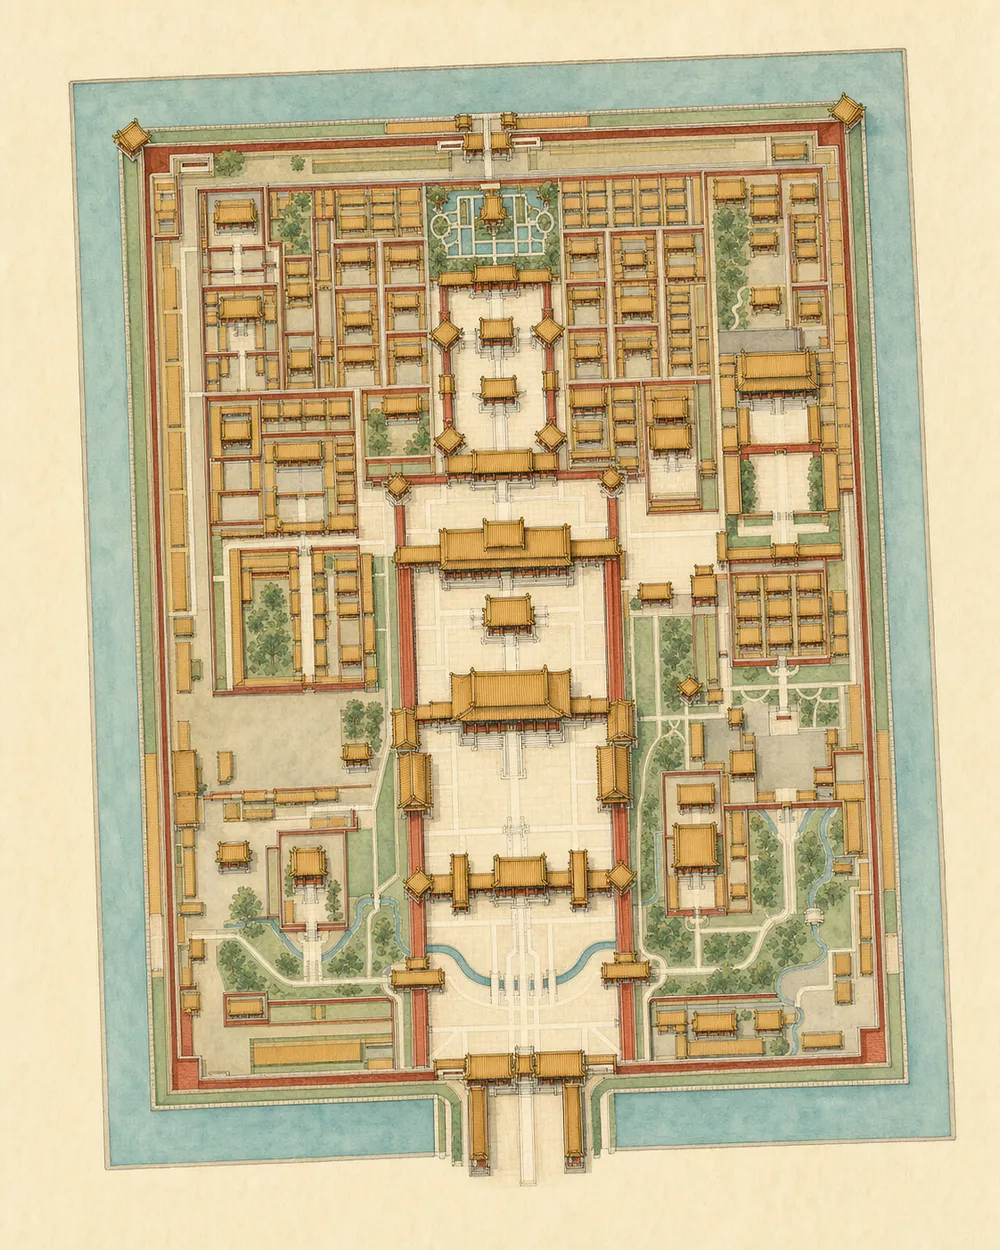
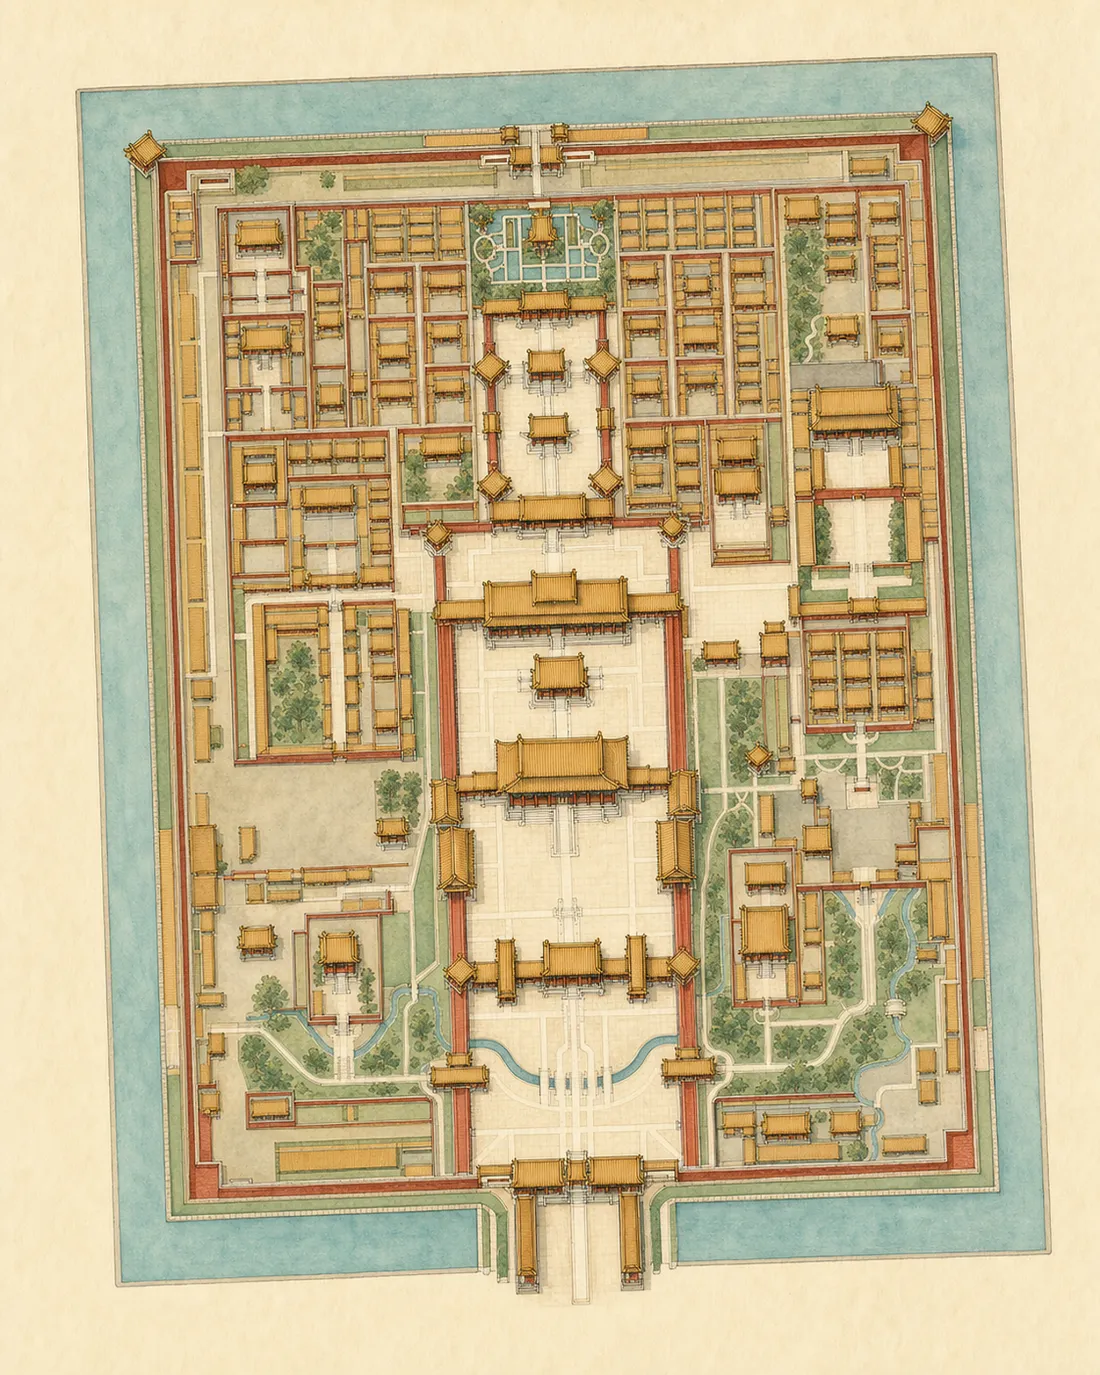
Show hand-drawn art instead of app screenshots; area-focused maps in development

diff --git a/index.html b/index.html
@@ -15,7 +15,7 @@
 <meta name="theme-color" content="#f8f3ea">
 <link rel="icon" type="image/png" href="favicon.png">
 <link rel="apple-touch-icon" href="apple-touch-icon.png">
-<link rel="stylesheet" href="assets/site.css?v=4cabcf5b">
+<link rel="stylesheet" href="assets/site.css?v=3b580346">
 </head>
 <body class="home">
 <header class="top">
@@ -37,7 +37,7 @@
     </div>
     <div class="hero-art">
       <img class="hero-lion" src="assets/img/art-lion.webp" alt="" width="600" height="727">
-      <div class="hero-phone"><img src="assets/img/hero.webp" alt="Penyola showing the hand-drawn Forbidden City map" width="530" height="1118"></div>
+      <div class="hero-map"><img src="assets/img/map-forbiddencity.webp" alt="Hand-drawn map of the Forbidden City" width="1100" height="1374"></div>
     </div>
   </div>
 </section>
@@ -67,7 +67,7 @@
         </div>
       </article>
       <article class="guide">
-        <div class="guide-map"><img src="assets/img/map-forbiddencity.webp" alt="Hand-drawn map of Forbidden City" loading="lazy" width="1000" height="1250"></div>
+        <div class="guide-map"><img src="assets/img/map-forbiddencity.webp" alt="Hand-drawn map of Forbidden City" loading="lazy" width="1100" height="1374"></div>
         <div class="guide-text">
           <p class="tag">Unlock All Guides</p>
           <h3>Forbidden City <span class="zh" lang="zh-Hans">故宫</span></h3>
@@ -91,11 +91,12 @@
     <div class="story-text">
       <p class="eyebrow">Every detail has a story</p>
       <h2>See what most visitors walk past</h2>
-      <p>Bronze lions guarding the gates, the crane and tortoise before the throne hall, the sundial that told imperial time. Penyola points them out on the map and tells you why they are there.</p>
+      <p>Bronze lions guarding the gates, the crane and tortoise before the throne hall, a golden celestial globe, the sundial that told imperial time. Penyola points them out on the map and tells you why they are there.</p>
     </div>
     <div class="relics" aria-hidden="true">
       <img src="assets/img/art-crane.webp" alt="" loading="lazy" width="600" height="600">
-      <img src="assets/img/art-throne.webp" alt="" loading="lazy" width="600" height="600">
+      <img src="assets/img/art-tortoise.webp" alt="" loading="lazy" width="600" height="600">
+      <img src="assets/img/art-globe.webp" alt="" loading="lazy" width="600" height="600">
       <img src="assets/img/art-sundial.webp" alt="" loading="lazy" width="600" height="600">
     </div>
   </div>
@@ -115,12 +116,23 @@
       <li><h3>Visitor essentials</h3><p>Opening hours, ticket notes, entrances and a Chinese address card for your taxi driver.</p></li>
       <li><h3>Works offline</h3><p>Everything is on your phone. No account, no sign-in, no ads.</p></li>
     </ul>
-    <div class="shots" tabindex="0" aria-label="App screenshots">
-      <figure><img src="assets/img/shot-02.webp" alt="Every detail has a story. Lions, cranes and roof beasts, each with its own page on the map." loading="lazy" width="720" height="1564"></figure>
-      <figure><img src="assets/img/shot-03.webp" alt="Listen as you explore. Narrated audio stories in English for every highlight." loading="lazy" width="720" height="1564"></figure>
-      <figure><img src="assets/img/shot-04.webp" alt="Routes that fit your time. Walking times, distances and stops, planned for you." loading="lazy" width="720" height="1564"></figure>
-      <figure><img src="assets/img/shot-05.webp" alt="See what others walk past. Small treasures beside the famous halls." loading="lazy" width="720" height="1564"></figure>
-      <figure><img src="assets/img/shot-06.webp" alt="No signal? No problem.. Maps, stories and audio live on your phone." loading="lazy" width="720" height="1564"></figure>
+  </div>
+</section>
+
+<section class="band paper">
+  <div class="wrap">
+    <div class="head">
+      <p class="eyebrow">Drawn by hand</p>
+      <h2>Every building, illustrated</h2>
+      <p class="lede">Each guide pairs its map with watercolour-style drawings of the halls, gates and pavilions you'll walk through.</p>
+    </div>
+    <div class="blds">
+      <figure class="bld"><img src="assets/img/bld-hall-of-supreme-harmony.webp" alt="Hand-drawn illustration of the Hall of Supreme Harmony" loading="lazy" width="640" height="640"><figcaption><strong>Hall of Supreme Harmony</strong>Forbidden City</figcaption></figure>
+      <figure class="bld"><img src="assets/img/bld-meridian-gate.webp" alt="Hand-drawn illustration of the Meridian Gate" loading="lazy" width="640" height="640"><figcaption><strong>Meridian Gate</strong>Forbidden City</figcaption></figure>
+      <figure class="bld"><img src="assets/img/bld-wanchun.webp" alt="Hand-drawn illustration of the Wanchun Pavilion" loading="lazy" width="640" height="640"><figcaption><strong>Wanchun Pavilion</strong>Jingshan Park</figcaption></figure>
+      <figure class="bld"><img src="assets/img/bld-palace-of-heavenly-purity.webp" alt="Hand-drawn illustration of the Palace of Heavenly Purity" loading="lazy" width="640" height="640"><figcaption><strong>Palace of Heavenly Purity</strong>Forbidden City</figcaption></figure>
+      <figure class="bld"><img src="assets/img/bld-gate-of-divine-might.webp" alt="Hand-drawn illustration of the Gate of Divine Might" loading="lazy" width="640" height="640"><figcaption><strong>Gate of Divine Might</strong>Forbidden City</figcaption></figure>
+      <figure class="bld"><img src="assets/img/bld-imperial-garden.webp" alt="Hand-drawn illustration of the Imperial Garden" loading="lazy" width="640" height="640"><figcaption><strong>Imperial Garden</strong>Forbidden City</figcaption></figure>
     </div>
   </div>
 </section>
@@ -134,7 +146,7 @@
     </div>
     <div class="nexts">
       <figure class="next">
-        <img src="assets/img/next-temple-of-heaven.webp" alt="Hand-drawn map of Temple of Heaven, in development" loading="lazy" width="800" height="751">
+        <img src="assets/img/next-temple-of-heaven.webp" alt="Hand-drawn map of Temple of Heaven, in development" loading="lazy" width="800" height="752">
         <figcaption><strong>Temple of Heaven</strong><span>Beijing · <span lang="zh-Hans">天坛</span></span></figcaption>
       </figure>
       <figure class="next">
@@ -142,20 +154,20 @@
         <figcaption><strong>Gulangyu Island</strong><span>Xiamen · <span lang="zh-Hans">鼓浪屿</span></span></figcaption>
       </figure>
       <figure class="next">
-        <img src="assets/img/next-chengde.webp" alt="Hand-drawn map of Chengde Mountain Resort, in development" loading="lazy" width="800" height="862">
-        <figcaption><strong>Chengde Mountain Resort</strong><span>Hebei · <span lang="zh-Hans">避暑山庄</span></span></figcaption>
-      </figure>
-      <figure class="next">
-        <img src="assets/img/next-jiayuguan.webp" alt="Hand-drawn map of Jiayuguan Fortress, in development" loading="lazy" width="800" height="934">
-        <figcaption><strong>Jiayuguan Fortress</strong><span>Gansu · <span lang="zh-Hans">嘉峪关</span></span></figcaption>
-      </figure>
-      <figure class="next">
         <img src="assets/img/next-lingering-garden.webp" alt="Hand-drawn map of Lingering Garden, in development" loading="lazy" width="800" height="876">
         <figcaption><strong>Lingering Garden</strong><span>Suzhou · <span lang="zh-Hans">留园</span></span></figcaption>
       </figure>
       <figure class="next">
-        <img src="assets/img/next-huangshan.webp" alt="Hand-drawn map of Huangshan, in development" loading="lazy" width="800" height="677">
-        <figcaption><strong>Huangshan</strong><span>Anhui · <span lang="zh-Hans">黄山</span></span></figcaption>
+        <img src="assets/img/next-wuhou-shrine.webp" alt="Hand-drawn map of Wuhou Shrine, in development" loading="lazy" width="800" height="837">
+        <figcaption><strong>Wuhou Shrine</strong><span>Chengdu · <span lang="zh-Hans">武侯祠</span></span></figcaption>
+      </figure>
+      <figure class="next">
+        <img src="assets/img/next-chengde.webp" alt="Hand-drawn map of Chengde Mountain Resort, in development" loading="lazy" width="800" height="867">
+        <figcaption><strong>Chengde Mountain Resort</strong><span>Hebei · <span lang="zh-Hans">避暑山庄</span></span></figcaption>
+      </figure>
+      <figure class="next">
+        <img src="assets/img/next-jiayuguan.webp" alt="Hand-drawn map of Jiayuguan Fortress, in development" loading="lazy" width="1016" height="800">
+        <figcaption><strong>Jiayuguan Fortress</strong><span>Gansu · <span lang="zh-Hans">嘉峪关</span></span></figcaption>
       </figure>
       <figure class="next wide">
         <img src="assets/img/next-longmen.webp" alt="Panoramic drawing of the Longmen Grottoes, in development" loading="lazy" width="1600" height="533">
@@ -176,7 +188,7 @@
       <p class="note">Price shown is for the United States; the App Store shows your local price.</p>
       <div class="cta"><span class="store soon"><svg viewBox="0 0 24 24" aria-hidden="true"><path d="M16.37 12.6c-.02-2.3 1.88-3.4 1.96-3.46-1.07-1.56-2.73-1.77-3.32-1.8-1.41-.14-2.76.83-3.48.83-.72 0-1.82-.81-3-.79-1.54.02-2.96.9-3.76 2.27-1.6 2.78-.41 6.9 1.15 9.16.76 1.1 1.67 2.34 2.86 2.3 1.15-.05 1.58-.74 2.97-.74 1.38 0 1.77.74 2.98.72 1.23-.02 2.01-1.12 2.76-2.23.87-1.28 1.23-2.52 1.25-2.58-.03-.01-2.4-.92-2.42-3.66zM14.1 5.84c.63-.77 1.06-1.83.94-2.89-.91.04-2.01.61-2.66 1.37-.58.67-1.1 1.76-.96 2.8 1.01.08 2.05-.52 2.68-1.28z"/></svg><span><small>Coming soon to the</small>App Store</span></span></div>
     </div>
-    <img class="price-shot" src="assets/img/shot-07.webp" alt="The Unlock All Guides purchase screen" loading="lazy" width="720" height="1564">
+    <img class="price-art" src="assets/img/art-throne.webp" alt="" loading="lazy" width="600" height="600">
   </div>
 </section>
 

diff --git a/assets/site.css b/assets/site.css
@@ -78,17 +78,16 @@ a.store:hover { color: #fff; background: #222; }
 .hero .text-link:hover { color: #fff; }
 .hero-inner { position: relative; display: grid; gap: 28px; }
 .hero-text { position: relative; z-index: 1; }
-.hero-art { position: relative; justify-self: center; width: min(80vw, 340px); }
-.hero-phone { position: relative; width: 82%; margin: 0 auto -90px; }
-.hero-phone img { border: 9px solid #1a1311; border-bottom: 0; border-radius: 46px 46px 0 0; box-shadow: 0 30px 70px rgba(30, 6, 3, .55); }
-.hero-lion { position: absolute; z-index: 2; width: 46%; left: -16%; bottom: 8px; filter: drop-shadow(0 18px 24px rgba(30, 6, 3, .45)); }
+.hero-art { position: relative; justify-self: center; width: min(84vw, 360px); padding-bottom: 40px; }
+.hero-map { background: #f6efe1; padding: 10px; border-radius: 6px; transform: rotate(2.2deg); box-shadow: 0 30px 60px rgba(30, 6, 3, .5), 0 0 0 1px rgba(217, 178, 106, .5); }
+.hero-map img { border-radius: 2px; }
+.hero-lion { position: absolute; z-index: 2; width: 44%; left: -14%; bottom: 0; filter: drop-shadow(0 18px 24px rgba(30, 6, 3, .5)); }
 @media (min-width: 880px) {
   .hero { padding: 88px 0 0; }
   .hero::before { inset: 20px; }
   .hero-inner { grid-template-columns: 1.1fr .9fr; align-items: end; gap: 48px; }
   .hero-text { padding-bottom: 96px; align-self: center; }
-  .hero-art { width: 420px; }
-  .hero-phone { margin-bottom: -60px; }
+  .hero-art { width: 430px; padding-bottom: 72px; }
 }
 
 /* Stats strip */
@@ -121,13 +120,13 @@ a.store:hover { color: #fff; background: #222; }
 /* Story + relic art */
 .story { display: grid; gap: 32px; align-items: center; }
 .story-text p:last-child { color: var(--muted); margin: 0; }
-.relics { display: grid; grid-template-columns: repeat(3, 1fr); gap: 12px; align-items: end; }
+.relics { display: grid; grid-template-columns: repeat(4, 1fr); gap: 12px; align-items: end; }
 .relics img { filter: drop-shadow(0 14px 18px rgba(70, 40, 20, .2)); }
-.relics img:nth-child(2) { transform: translateY(-14px); }
+.relics img:nth-child(even) { transform: translateY(-14px); }
 @media (min-width: 880px) { .story { grid-template-columns: .9fr 1.1fr; gap: 64px; } }
 
 /* Features */
-.features { list-style: none; padding: 0; margin: 0 0 48px; display: grid; gap: 14px; counter-reset: f; }
+.features { list-style: none; padding: 0; margin: 0; display: grid; gap: 14px; counter-reset: f; }
 @media (min-width: 640px) { .features { grid-template-columns: 1fr 1fr; } }
 @media (min-width: 980px) { .features { grid-template-columns: repeat(3, 1fr); } }
 .features li { background: var(--card); border: 1px solid var(--line); border-radius: 16px; padding: 20px 22px; counter-increment: f; }
@@ -135,12 +134,14 @@ a.store:hover { color: #fff; background: #222; }
 .features h3 { font-size: 20px; margin-bottom: .35em; }
 .features p { margin: 0; color: var(--muted); font-size: 15.5px; }
 
-/* Screenshots */
-.shots { display: grid; grid-auto-flow: column; grid-auto-columns: min(62vw, 240px); gap: 16px; overflow-x: auto; scroll-snap-type: x mandatory; padding: 4px 16px 16px; margin: 0 -16px; overscroll-behavior-x: contain; scrollbar-width: thin; }
-@media (min-width: 720px) { .shots { margin: 0 -32px; padding: 4px 32px 16px; } }
-@media (min-width: 1224px) { .shots { grid-auto-flow: row; grid-template-columns: repeat(5, 1fr); margin: 0; padding: 4px 0 0; overflow: visible; } }
-.shots figure { margin: 0; scroll-snap-align: start; }
-.shots img { border-radius: 16px; box-shadow: 0 10px 30px rgba(80, 40, 20, .16); }
+/* Hand-drawn buildings */
+.blds { display: grid; grid-template-columns: repeat(2, 1fr); gap: 14px; }
+@media (min-width: 880px) { .blds { grid-template-columns: repeat(3, 1fr); gap: 22px; } }
+.bld { margin: 0; background: #faf4e8; border: 1px solid var(--line); border-radius: 18px; overflow: hidden; }
+.bld img { width: 100%; aspect-ratio: 1; object-fit: cover; mix-blend-mode: multiply; }
+.bld figcaption { padding: 12px 14px 14px; font-size: 13px; color: var(--muted); line-height: 1.35; border-top: 1px solid var(--line); background: var(--card); }
+.bld figcaption strong { display: block; font: 600 16px/1.25 var(--serif); color: var(--ink); }
+@media (min-width: 880px) { .bld figcaption { padding: 14px 18px 16px; font-size: 14px; } .bld figcaption strong { font-size: 19px; } }
 
 /* Coming next */
 .dark { background: var(--night); color: #efe5d8; }
@@ -168,7 +169,7 @@ a.store:hover { color: #fff; background: #222; }
 .price-card > p:not(.eyebrow):not(.note):not(.price-line) { color: var(--muted); }
 .price-line { font-size: 15px; color: var(--muted); border-top: 1px solid var(--line); border-bottom: 1px solid var(--line); padding: 14px 0; margin: 20px 0 10px; }
 .price-line strong { font: 600 30px/1 var(--serif); color: var(--ink); margin-right: 8px; }
-.price-shot { width: min(70vw, 280px); justify-self: center; border-radius: 22px; box-shadow: 0 18px 44px rgba(80, 40, 20, .2); }
+.price-art { width: min(70vw, 320px); justify-self: center; filter: drop-shadow(0 20px 28px rgba(70, 40, 20, .25)); }
 @media (min-width: 880px) { .price { grid-template-columns: 1.3fr .7fr; gap: 64px; } .price-card { padding: 44px 44px 36px; } }
 
 /* Documents: support, privacy, terms, credits */

diff --git a/credits.html b/credits.html
@@ -15,7 +15,7 @@
 <meta name="theme-color" content="#f8f3ea">
 <link rel="icon" type="image/png" href="favicon.png">
 <link rel="apple-touch-icon" href="apple-touch-icon.png">
-<link rel="stylesheet" href="assets/site.css?v=4cabcf5b">
+<link rel="stylesheet" href="assets/site.css?v=3b580346">
 </head>
 <body class="">
 <header class="top">

diff --git a/privacy.html b/privacy.html
@@ -15,7 +15,7 @@
 <meta name="theme-color" content="#f8f3ea">
 <link rel="icon" type="image/png" href="favicon.png">
 <link rel="apple-touch-icon" href="apple-touch-icon.png">
-<link rel="stylesheet" href="assets/site.css?v=4cabcf5b">
+<link rel="stylesheet" href="assets/site.css?v=3b580346">
 </head>
 <body class="">
 <header class="top">

diff --git a/support.html b/support.html
@@ -15,7 +15,7 @@
 <meta name="theme-color" content="#f8f3ea">
 <link rel="icon" type="image/png" href="favicon.png">
 <link rel="apple-touch-icon" href="apple-touch-icon.png">
-<link rel="stylesheet" href="assets/site.css?v=4cabcf5b">
+<link rel="stylesheet" href="assets/site.css?v=3b580346">
 </head>
 <body class="">
 <header class="top">

diff --git a/terms.html b/terms.html
@@ -15,7 +15,7 @@
 <meta name="theme-color" content="#f8f3ea">
 <link rel="icon" type="image/png" href="favicon.png">
 <link rel="apple-touch-icon" href="apple-touch-icon.png">
-<link rel="stylesheet" href="assets/site.css?v=4cabcf5b">
+<link rel="stylesheet" href="assets/site.css?v=3b580346">
 </head>
 <body class="">
 <header class="top">

diff --git a/build.py b/build.py
@@ -91,12 +91,13 @@ GUIDES = [
     ('summerpalace', 'Summer Palace', '颐和园', 'Unlock All Guides', 'Kunming Lake, Longevity Hill and the Long Corridor, with walking routes around the lake.'),
 ]
 
-SHOTS = [
-    ('02', 'Every detail has a story', 'Lions, cranes and roof beasts, each with its own page on the map.'),
-    ('03', 'Listen as you explore', 'Narrated audio stories in English for every highlight.'),
-    ('04', 'Routes that fit your time', 'Walking times, distances and stops, planned for you.'),
-    ('05', 'See what others walk past', 'Small treasures beside the famous halls.'),
-    ('06', 'No signal? No problem.', 'Maps, stories and audio live on your phone.'),
+BUILDINGS = [
+    ('hall-of-supreme-harmony', 'Hall of Supreme Harmony', 'Forbidden City'),
+    ('meridian-gate', 'Meridian Gate', 'Forbidden City'),
+    ('wanchun', 'Wanchun Pavilion', 'Jingshan Park'),
+    ('palace-of-heavenly-purity', 'Palace of Heavenly Purity', 'Forbidden City'),
+    ('gate-of-divine-might', 'Gate of Divine Might', 'Forbidden City'),
+    ('imperial-garden', 'Imperial Garden', 'Forbidden City'),
 ]
 
 FEATURES = [
@@ -110,30 +111,30 @@ FEATURES = [
 
 # Maps in development, chosen from the most complete packages; previews only, no dates promised.
 NEXT = [
-    ('temple-of-heaven', 'Temple of Heaven', 'Beijing', '天坛', 800, 751),
+    ('temple-of-heaven', 'Temple of Heaven', 'Beijing', '天坛', 800, 752),
     ('gulangyu', 'Gulangyu Island', 'Xiamen', '鼓浪屿', 800, 800),
-    ('chengde', 'Chengde Mountain Resort', 'Hebei', '避暑山庄', 800, 862),
-    ('jiayuguan', 'Jiayuguan Fortress', 'Gansu', '嘉峪关', 800, 934),
     ('lingering-garden', 'Lingering Garden', 'Suzhou', '留园', 800, 876),
-    ('huangshan', 'Huangshan', 'Anhui', '黄山', 800, 677),
+    ('wuhou-shrine', 'Wuhou Shrine', 'Chengdu', '武侯祠', 800, 837),
+    ('chengde', 'Chengde Mountain Resort', 'Hebei', '避暑山庄', 800, 867),
+    ('jiayuguan', 'Jiayuguan Fortress', 'Gansu', '嘉峪关', 1016, 800),
 ]
 
 guides = ''.join(f"""
       <article class="guide">
-        <div class="guide-map"><img src="assets/img/map-{key}.webp" alt="Hand-drawn map of {name}" loading="lazy" width="1000" height="{h}"></div>
+        <div class="guide-map"><img src="assets/img/map-{key}.webp" alt="Hand-drawn map of {name}" loading="lazy" width="{w}" height="{h}"></div>
         <div class="guide-text">
           <p class="tag{' free' if tag == 'Free' else ''}">{tag}</p>
           <h3>{name} <span class="zh" lang="zh-Hans">{zh}</span></h3>
           <p>{text}</p>
         </div>
-      </article>""" for (key, name, zh, tag, text), h in zip(GUIDES, (1202, 1250, 1168)))
+      </article>""" for (key, name, zh, tag, text), (w, h) in zip(GUIDES, ((1000, 1202), (1100, 1374), (1000, 1168))))
 
 features = ''.join(f"""
       <li><h3>{title}</h3><p>{text}</p></li>""" for title, text in FEATURES)
 
-shots = ''.join(f"""
-      <figure><img src="assets/img/shot-{n}.webp" alt="{cap}. {sub}" loading="lazy" width="720" height="1564"></figure>"""
-                for n, cap, sub in SHOTS)
+buildings = ''.join(f"""
+      <figure class="bld"><img src="assets/img/bld-{key}.webp" alt="Hand-drawn illustration of the {name}" loading="lazy" width="640" height="640"><figcaption><strong>{name}</strong>{site}</figcaption></figure>"""
+                    for key, name, site in BUILDINGS)
 
 upcoming = ''.join(f"""
       <figure class="next">
@@ -153,7 +154,7 @@ HOME = f"""
     </div>
     <div class="hero-art">
       <img class="hero-lion" src="assets/img/art-lion.webp" alt="" width="600" height="727">
-      <div class="hero-phone"><img src="assets/img/hero.webp" alt="Penyola showing the hand-drawn Forbidden City map" width="530" height="1118"></div>
+      <div class="hero-map"><img src="assets/img/map-forbiddencity.webp" alt="Hand-drawn map of the Forbidden City" width="1100" height="1374"></div>
     </div>
   </div>
 </section>
@@ -183,11 +184,12 @@ HOME = f"""
     <div class="story-text">
       <p class="eyebrow">Every detail has a story</p>
       <h2>See what most visitors walk past</h2>
-      <p>Bronze lions guarding the gates, the crane and tortoise before the throne hall, the sundial that told imperial time. Penyola points them out on the map and tells you why they are there.</p>
+      <p>Bronze lions guarding the gates, the crane and tortoise before the throne hall, a golden celestial globe, the sundial that told imperial time. Penyola points them out on the map and tells you why they are there.</p>
     </div>
     <div class="relics" aria-hidden="true">
       <img src="assets/img/art-crane.webp" alt="" loading="lazy" width="600" height="600">
-      <img src="assets/img/art-throne.webp" alt="" loading="lazy" width="600" height="600">
+      <img src="assets/img/art-tortoise.webp" alt="" loading="lazy" width="600" height="600">
+      <img src="assets/img/art-globe.webp" alt="" loading="lazy" width="600" height="600">
       <img src="assets/img/art-sundial.webp" alt="" loading="lazy" width="600" height="600">
     </div>
   </div>
@@ -201,7 +203,17 @@ HOME = f"""
     </div>
     <ul class="features">{features}
     </ul>
-    <div class="shots" tabindex="0" aria-label="App screenshots">{shots}
+  </div>
+</section>
+
+<section class="band paper">
+  <div class="wrap">
+    <div class="head">
+      <p class="eyebrow">Drawn by hand</p>
+      <h2>Every building, illustrated</h2>
+      <p class="lede">Each guide pairs its map with watercolour-style drawings of the halls, gates and pavilions you'll walk through.</p>
+    </div>
+    <div class="blds">{buildings}
     </div>
   </div>
 </section>
@@ -233,7 +245,7 @@ HOME = f"""
       <p class="note">Price shown is for the United States; the App Store shows your local price.</p>
       <div class="cta">{store_button()}</div>
     </div>
-    <img class="price-shot" src="assets/img/shot-07.webp" alt="The Unlock All Guides purchase screen" loading="lazy" width="720" height="1564">
+    <img class="price-art" src="assets/img/art-throne.webp" alt="" loading="lazy" width="600" height="600">
   </div>
 </section>
 """

diff --git a/README.md b/README.md
@@ -22,5 +22,5 @@ Fonts: Manrope, SIL Open Font License 1.1 (`assets/fonts/OFL.txt`).
 Before release, `RELEASED = False` in `build.py` shows a non-link "Coming soon to the App Store" badge.
 When the app is live, set it to `True`, rebuild and push. The badges then link to the App Store page.
 
-The "In the works" section on the home page (`NEXT` in `build.py`) previews maps still in development,
+The "In the works" section on the home page (`NEXT` in `build.py`) previews maps still in development (area-focused site maps only, no mountain landscapes),
 from `penyola-artifacts/test-catalog/`. It promises no dates. Update it as guides ship.
